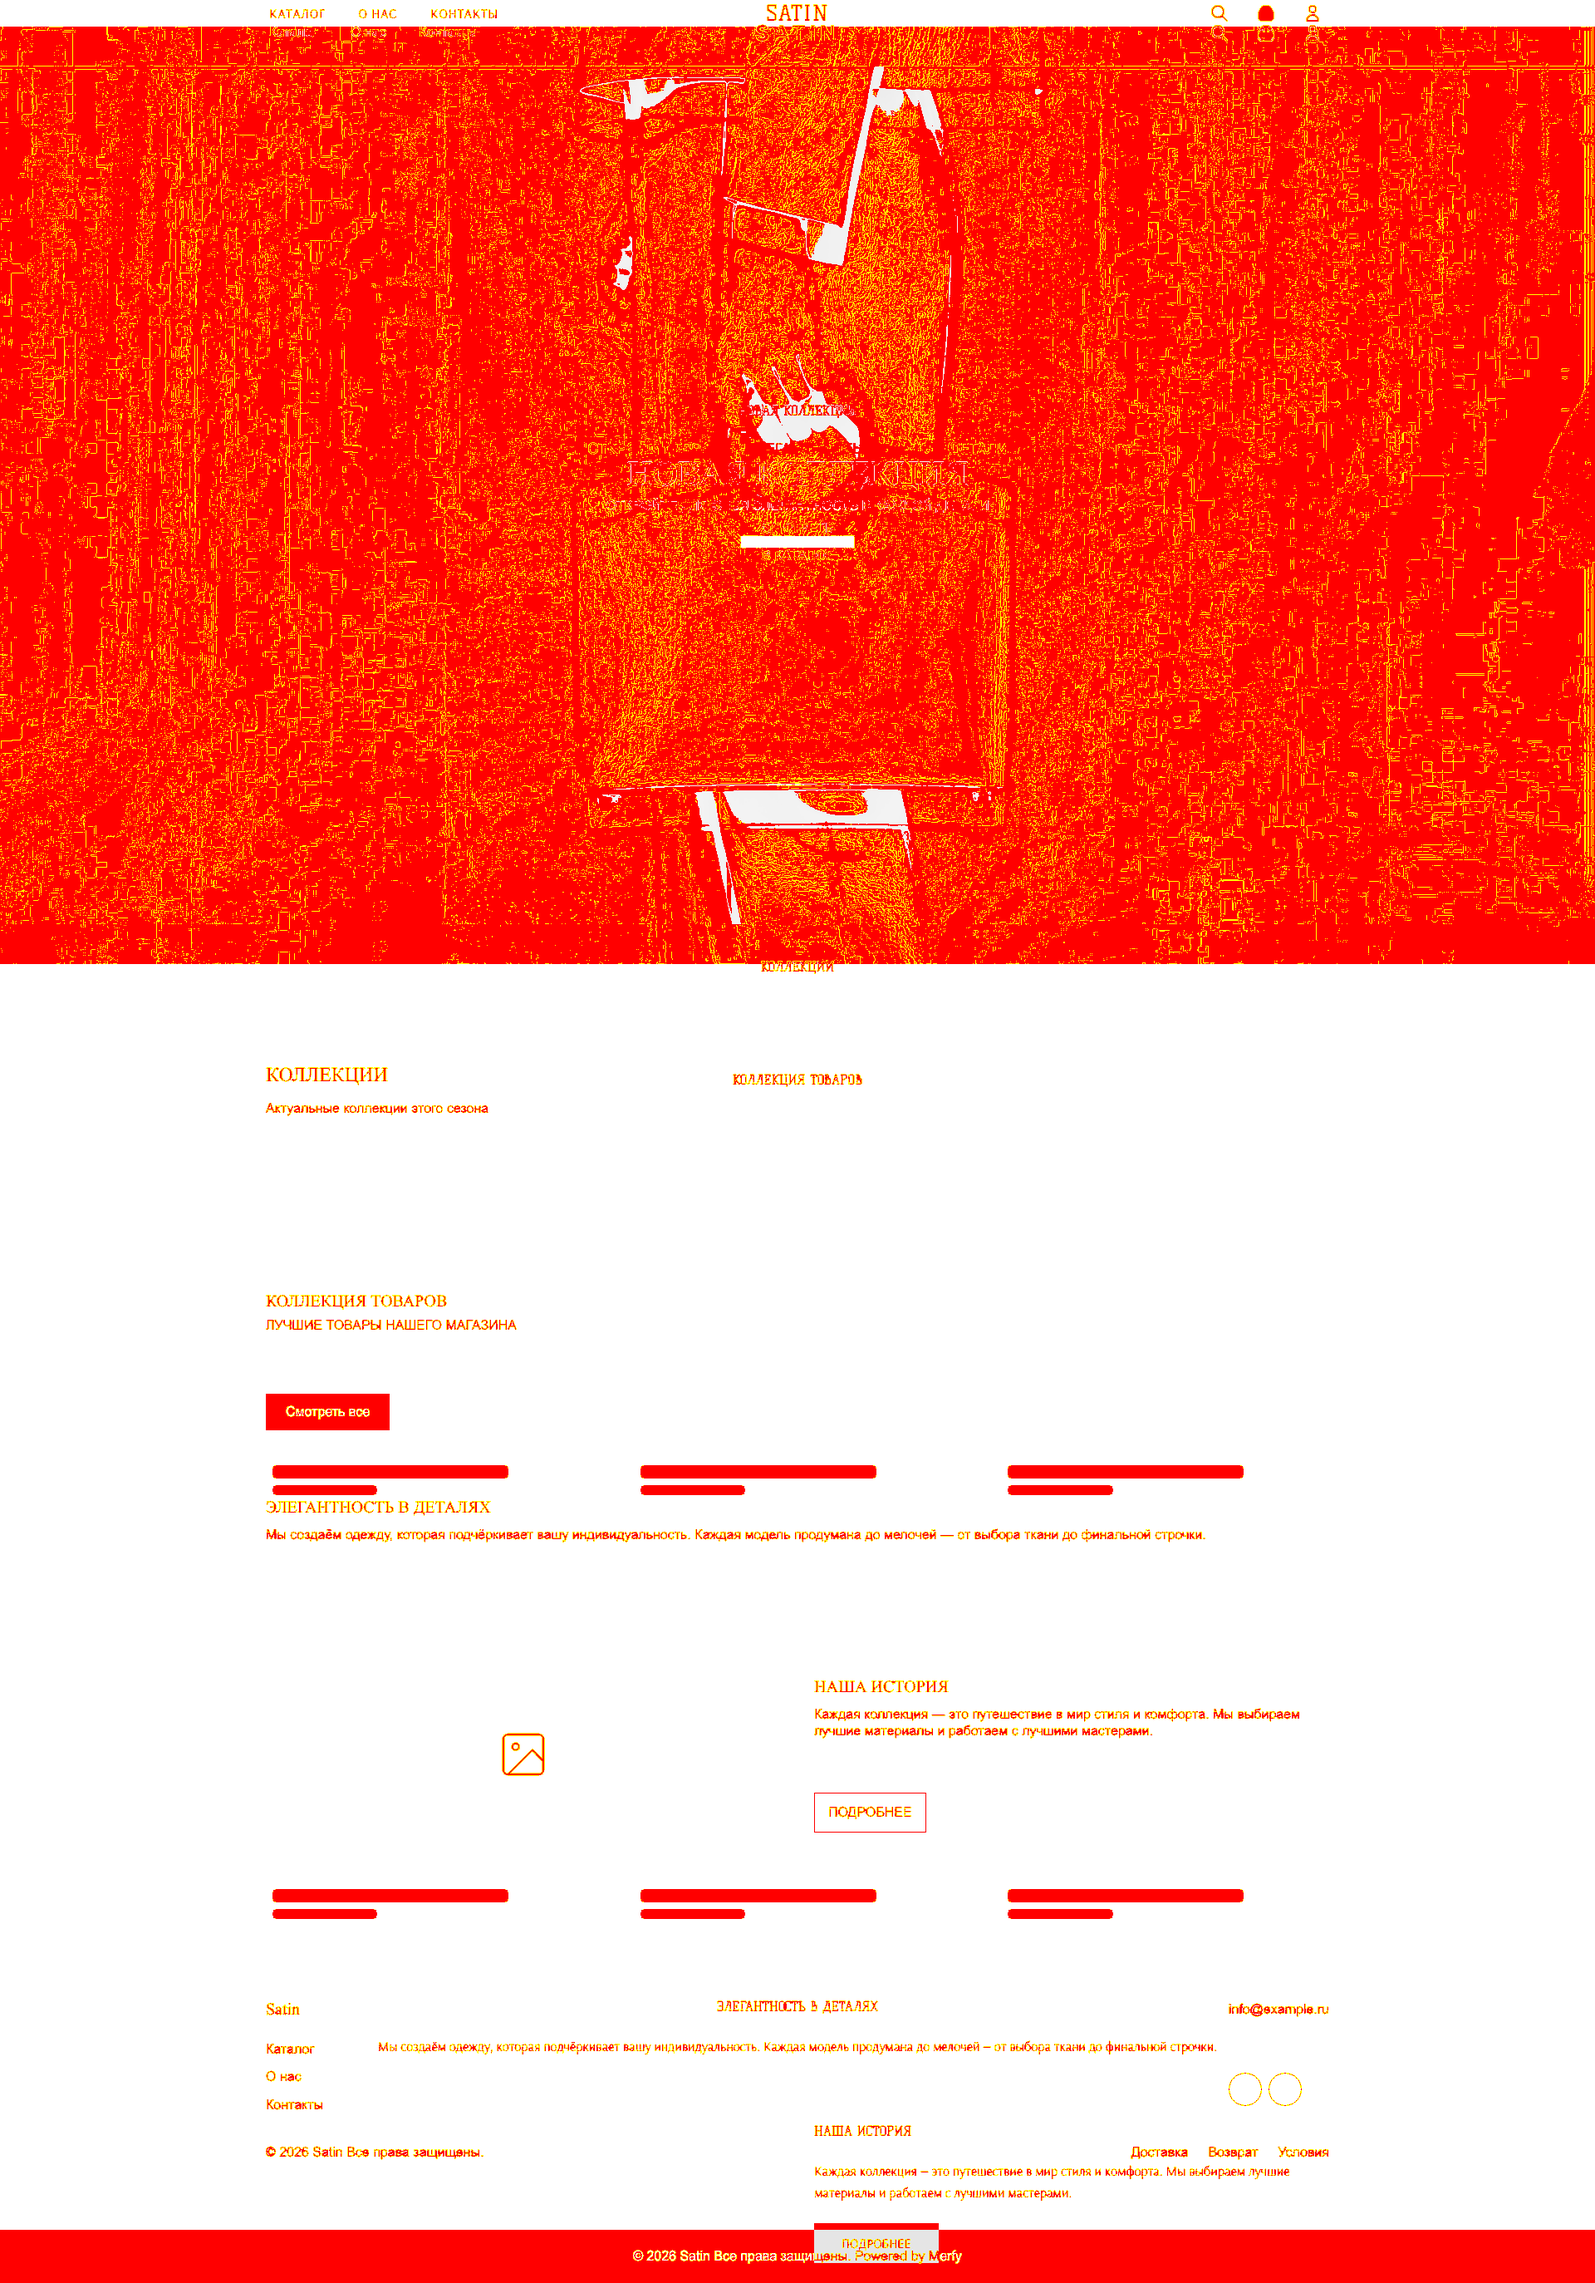
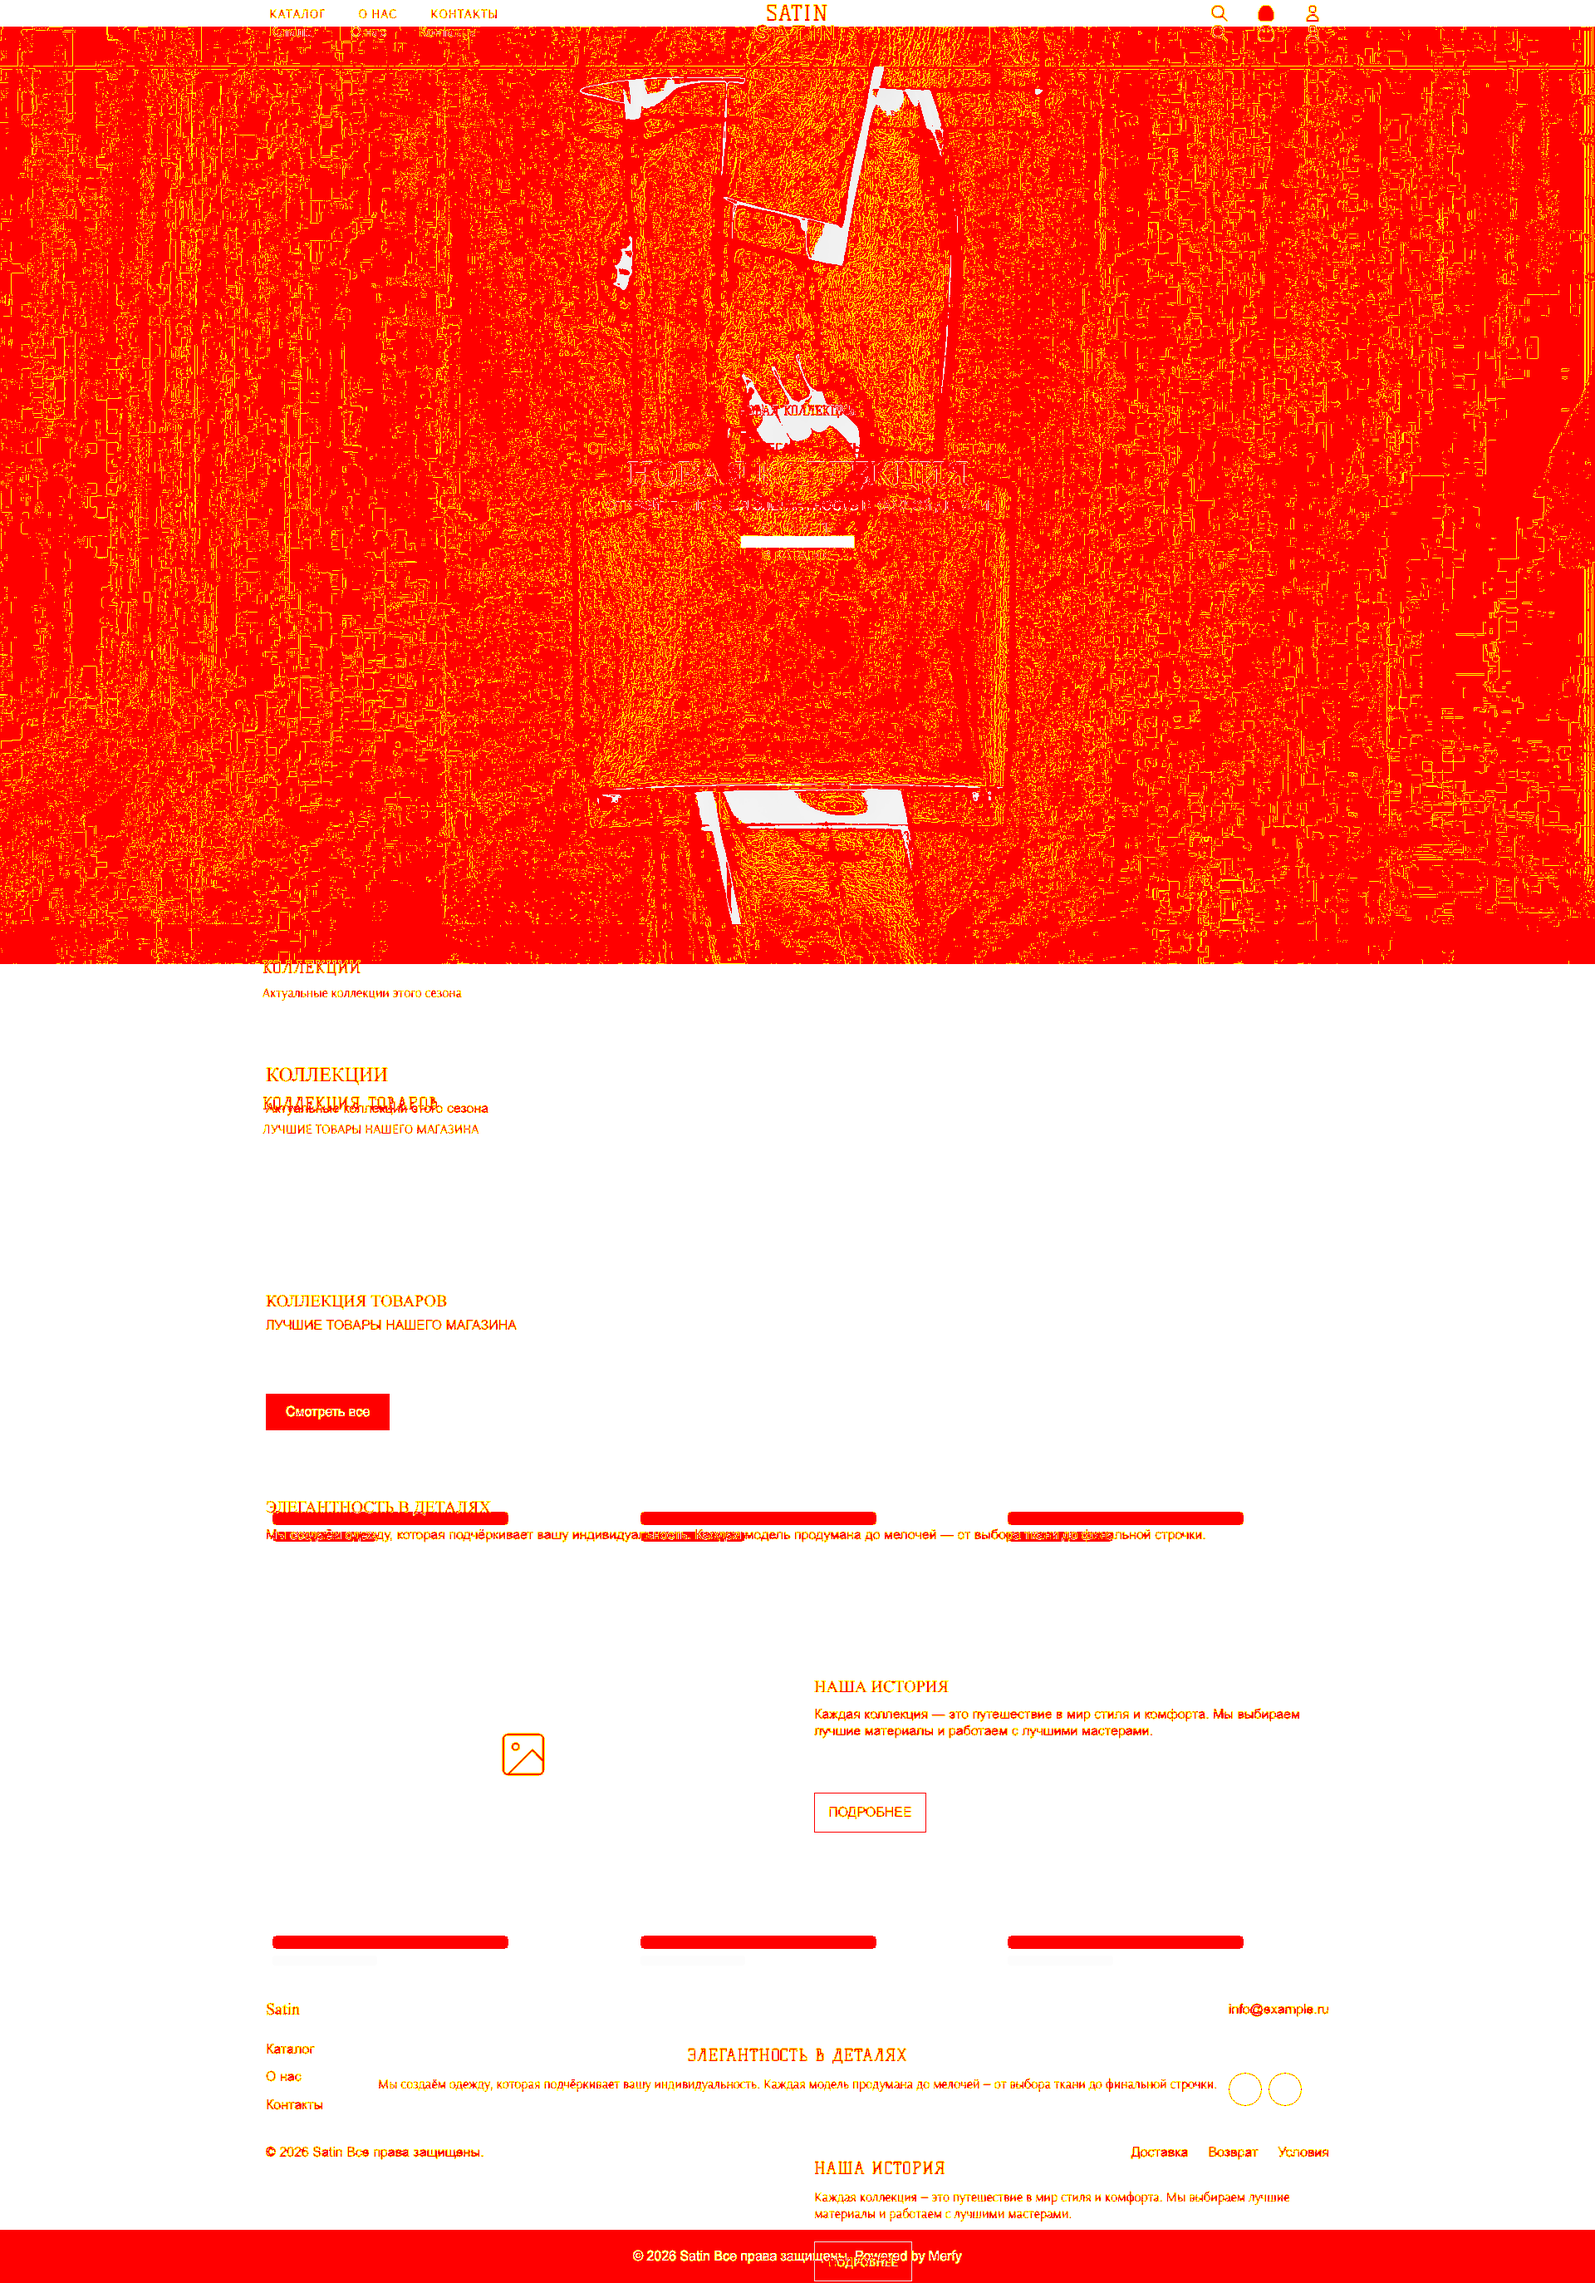
fix(079): tighten PopularProducts + ImageWithText to live parity
PopularProducts previously rendered 6 grey placeholder cards for any
site. Live only shows them if dataSource is explicitly "placeholder";
auto/collection values render real product cards. Gate placeholders
on dataSource === 'placeholder' so Satin (dataSource:"auto", empty
collection) just shows heading/subtitle + "Смотреть все" CTA like live.

ImageWithText now renders a grey placeholder box with image-icon SVG
when image is absent — previously it rendered an empty flex column
with nothing in it. This also keeps preview page height closer to
the reference screenshot (the section used to be 100+ px shorter).

New coercers:
- ImageWithText: unwrap {text,enabled}/{content,enabled} envelopes,
  coerce image "" → undefined, button {link,text,enabled} → {href,text},
  photoPosition → imagePosition
- MainText: same envelope-flattening; default align:'left'

diff --git a/src/controllers/preview.controller.ts b/src/controllers/preview.controller.ts
@@ -206,6 +206,12 @@ function adaptLegacyProps(
     case 'Footer':
       coerceFooterProps(out);
       break;
+    case 'ImageWithText':
+      coerceImageWithTextProps(out, publicUrl);
+      break;
+    case 'MainText':
+      coerceMainTextProps(out);
+      break;
     default:
       // Generic fallback for the 19 blocks without a hand-written coercer
       // (MainText, Newsletter, ImageWithText, Slideshow, MultiColumns,
@@ -449,6 +455,59 @@ function coerceContactFormProps(out: Record<string, unknown>): void {
   }
   out.colorScheme = coerceSchemeNumber(out.colorScheme);
   if (!out.padding) out.padding = { top: 80, bottom: 80 };
+}
+
+function coerceImageWithTextProps(
+  out: Record<string, unknown>,
+  publicUrl: string | null,
+): void {
+  // heading: {text, enabled} → flat string
+  const h = unwrapTextSize(out.heading);
+  if (h.present) out.heading = h.value;
+  else if (typeof out.heading !== 'string') out.heading = '';
+  // text: {content, enabled} → flat string
+  const t = unwrapTextSize(out.text);
+  if (t.present) out.text = t.value;
+  else if (typeof out.text !== 'string') out.text = '';
+  // image: "" (legacy) → undefined, so Astro renders placeholder SVG
+  if (typeof out.image === 'string') {
+    out.image = out.image
+      ? { url: rewriteAssetUrl(out.image as string, publicUrl), alt: '' }
+      : undefined;
+  }
+  // button: {link: "/about", text, enabled} → {href, text}
+  if (isPlainObject(out.button)) {
+    const b = out.button as Record<string, unknown>;
+    const href =
+      typeof b.href === 'string'
+        ? b.href
+        : typeof b.link === 'string'
+          ? b.link
+          : isPlainObject(b.link) &&
+              typeof (b.link as Record<string, unknown>).href === 'string'
+            ? String((b.link as Record<string, unknown>).href)
+            : '#';
+    out.button = { text: String(b.text ?? ''), href };
+  }
+  out.colorScheme = coerceSchemeNumber(out.colorScheme);
+  // photoPosition: "left"|"right" → imagePosition
+  if (!out.imagePosition) {
+    const pp = typeof out.photoPosition === 'string' ? out.photoPosition : '';
+    out.imagePosition = pp === 'right' ? 'right' : 'left';
+  }
+  if (!out.padding) out.padding = { top: 40, bottom: 40 };
+}
+
+function coerceMainTextProps(out: Record<string, unknown>): void {
+  const h = unwrapTextSize(out.heading);
+  if (h.present) out.heading = h.value;
+  else if (typeof out.heading !== 'string') out.heading = '';
+  const t = unwrapTextSize(out.text);
+  if (t.present) out.text = t.value;
+  else if (typeof out.text !== 'string') out.text = '';
+  out.colorScheme = coerceSchemeNumber(out.colorScheme);
+  if (!out.align) out.align = 'left';
+  if (!out.padding) out.padding = { top: 40, bottom: 40 };
 }
 
 function coerceFooterProps(out: Record<string, unknown>): void {
